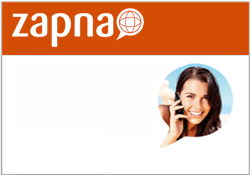
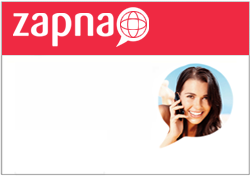
css

Changed region(s): [[0.0, 0.0, 1.0, 0.3125]]

diff --git a/web/zerocall/style/styleie.css b/web/zerocall/style/styleie.css
@@ -92,7 +92,7 @@ width:232px;
 .right-col .box small{ font-size:11px;}
 .right-col .box p{ margin-top:5px; margin-bottom:20px; font-size:12px;padding:0px;}
 .right-col .box a{
-    background-image: url("../images/b.jpg");
+    background-image: url("../images/b.png");
     background-repeat: repeat-x;
     border: 0 none !important;
     color: #FFFFFF;

diff --git a/apps/backend/modules/invoice/templates/selectIntervalAlertSuccess.php b/apps/backend/modules/invoice/templates/selectIntervalAlertSuccess.php
@@ -1,33 +1,33 @@
 <div id="sf_admin_container"><br>
-<?php if ($sf_user->hasFlash('notice')): ?>
-	<div class='notice'>
-	  <?php echo $sf_user->getFlash('notice') ?>
-	</div>
-<?php endif; ?>
+    <?php if ($sf_user->hasFlash('notice')): ?>
+        <div class='notice'>
+          <?php echo $sf_user->getFlash('notice') ?>
+        </div>
+    <?php endif; ?>
 </div>    
 <div id="sf_admin_container">
    <div class="sf_admin_filters">  
-       <fieldset> <h1 style="margin-top: 0;"><?php echo __('Low Credit Alert Report') ?></h1>
-<?php echo form_tag('invoice/usageAlertReport') ?>
-     <div class="form-row">
-         <label> Start date/time</label> 
-         <div class="content">
-           <input type="text"   name="startdate" autocomplete="off" id="startdate" style="width: 90px;"  />
-         </div>
-     </div>    
-     <div class="form-row">
-       <label>  End date/time</label> 
-       <div class="content">
-           <input type="text"   name="enddate" autocomplete="off" id="enddate" style="width: 90px;"  />
-       </div>    
-     </div>   
-     <div class="form-row">
-            <div class="content"> 
-              <input type="submit" value="Generate Report" class="user_external_link" />  
-            </div>
-     </div>   
-       </form>
-</fieldset>  
+       <fieldset>
+           <h1 style="margin-top: 0;"><?php echo __('Low Credit Alert Report') ?></h1>
+           <?php echo form_tag('invoice/usageAlertReport') ?>
+           <div class="form-row">
+             <label> Start date/time</label>
+             <div class="content">
+               <input type="text"   name="startdate" autocomplete="off" id="startdate" style="width: 90px;"  />
+             </div>
+           </div>
+           <div class="form-row">
+               <label>  End date/time</label>
+               <div class="content">
+                   <input type="text"   name="enddate" autocomplete="off" id="enddate" style="width: 90px;"  />
+               </div>
+           </div>
+       </fieldset>
+       <ul class="sf_admin_actions">
+        <li>
+            <input type="submit" value="Generate Report" class="user_external_link" />
+        </li>
+      </ul>
     </div>
 </div>    
 

diff --git a/apps/backend/modules/customer/templates/deActivateCustomerSuccess.php b/apps/backend/modules/customer/templates/deActivateCustomerSuccess.php
@@ -1,28 +1,23 @@
-<?php
-/* 
- * To change this template, choose Tools | Templates
- * and open the template in the editor.
- */
-
-?><div id="sf_admin_container">
-<div class="sf_admin_filters">
-    <fieldset>  
-    <h1 style="margin-top: 0;">De-Activate Customer</h1><br />
-<form action="" method="get">
-    <div class="form-row">
-             <label for=""><strong>Customer Id:</strong></label>
-    <div class="content">
-             <input type="text" name="customer_id" />
+<div id="sf_admin_container">
+    <div class="sf_admin_filters">
+        <h1>De-Activate Customer</h1>
+        <form action="" method="get">
+            <fieldset>
+                <div class="form-row">
+                    <label>Customer Id:</label>
+                    <div class="content">
+                        <input type="text" name="customer_id" />
+                    </div>
+                </div>
+                <div class="form-row">
+                    <?php echo $response_text ?>
+                </div>
+             </fieldset>
+            <ul class="sf_admin_actions">
+                <li>
+                    <input type="submit" value="De-Activate" class="user_external_link" />
+                </li>
+          </ul>
+        </form>
     </div>
-    </div>
-    <div class="form-row">
-            <div class="content">
-              <input type="submit" value="De-Activate" class="user_external_link" />
-            </div>
-    </div>
-</form>
-
-<br/>
-<?php echo $response_text ?>
-<br />
 </div>
